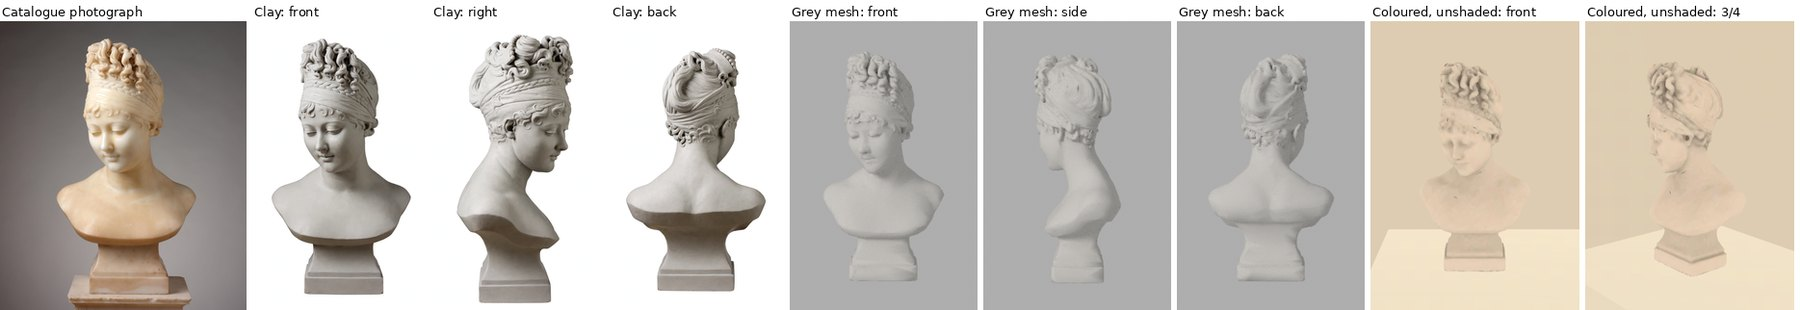
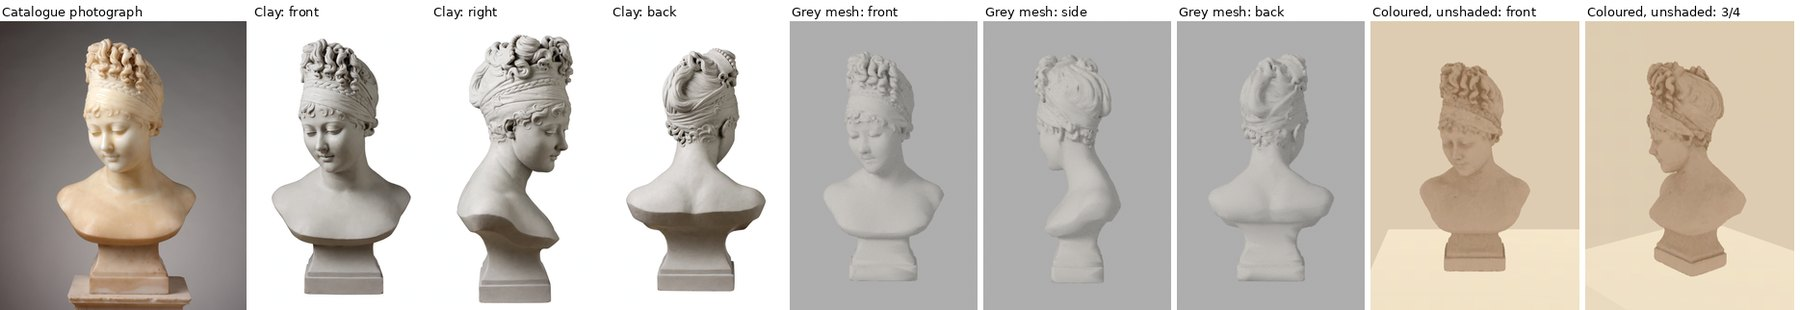
Bust of Madame Récamier 37.201: honey colour, and placed in the Rockefeller room: source only (#263)
Colour without a paid run: base from the middle third of the photograph (her lit face is blown pale there),
shaded towards the photograph's amber shadow colour at strength 1.6, so the face reads; she was a pale ghost.
Placement: her volume_instances row in video-inventory.json gains "mesh": "additions/rockefeller/recamier-37201.glb".
Her row's position is inside the Rockefeller room's bounds and the manifest lists her there, so the GLB is in
additions/rockefeller/, not additions/grey/. representation.json: her key becomes her accession, as a mesh
(58 shortfalls left).

Changed region(s): [[0.7778, 0.2032, 0.8711, 0.9], [0.9022, 0.2032, 0.9956, 0.9]]

diff --git a/image-work/mesh-pilot-263/plain_colour.py b/image-work/mesh-pilot-263/plain_colour.py
@@ -14,7 +14,7 @@ base = np.median(px[(lum >= np.percentile(lum, lo)) & (lum <= np.percentile(lum,
 dark = np.median(px[lum <= np.percentile(lum, 17)], axis=0) if shade == "photo" else np.zeros(3)
 a = np.array(Image.open(ao).convert("L").resize((int(size), int(size)), Image.LANCZOS)).astype(np.float32) / 255
 a = cv2.GaussianBlur(a, (0, 0), blur * int(size) / 512); a = np.clip((a - np.percentile(a, 2)) / max(1e-3, np.percentile(a, 98) - np.percentile(a, 2)), 0, 1)
-w = (1 - k + k * a)[..., None]  # 1 where open, 1 - k in the deepest hollow
+w = np.clip(1 - k + k * a, 0, 1)[..., None]  # 1 where open, 1 - k in the deepest hollow; a strength over 1 reaches the shade colour sooner
 Image.fromarray((base[None, None, :] * w + dark[None, None, :] * (1 - w)).clip(0, 255).astype(np.uint8)).save(out)
 print(f"plain colour: base ({which}) {np.round(base).astype(int).tolist()}, shade ({shade}) {np.round(dark).astype(int).tolist()}, occlusion {k} blurred {blur} px")
 if __name__ == "__main__" and shade == "grey" and which == "bright":  # the one check: the accepted rule is unchanged

diff --git a/modules/shell/prototype/mesh_pilot/meshes/37.201/PROVENANCE.md b/modules/shell/prototype/mesh_pilot/meshes/37.201/PROVENANCE.md
@@ -11,7 +11,7 @@ Made on the Muse-first route (`image-work/mesh-pilot-263/RECIPE.md`), 8 October 
 | Mesh | Flora, RISD EDU Workspace, Tripo H3.1 Multi-View (`i3d-tripo-h3-1-multiview-i3d`), geometry detailed, texture off, face limit 500,000; views given as back, right, front (the frame turned half round, because the left view failed); views front and right each from the museum's photograph of that side; back inferred by Muse; no left view (the Muse call failed with HTTP 502 and was not resubmitted); run `run_m176j6j9xvqh2cgavbw9hhmpm58fx6dm`; raw GLB `2f59f0c41cc4bae9…` (477,562 triangles, not kept) | quoted 0.48, charged 0.48 USD |
 | Rejected mesh | Tripo H3.1 Multi-View (`i3d-tripo-h3-1-multiview-i3d`), run `run_m171mq2jvy2r4gkzr2qzg9bdvs8fx0jw`; views front from the photograph; left and back inferred (Muse drew the right profile, mirrored). Rejected 8 October: the photograph taken as the front is a view from her right side, Muse drew a round lump for the square stepped socle, and the colour had invented veining and dark hair; mesh kept outside git | quoted 0.48, charged 0.48 USD |
 | Blender 5.2.2 | `clay_mesh.py`: reduced to 10,000 triangles, occlusion baked from the high mesh; made 0.3535 m wide and 0.2802 m deep at the catalogue height, set to [0.337, 0.6061, 0.2352] m (width, height, depth) | free |
-| Colour | `plain_colour.py`: one base colour from the lit areas of the catalogue photograph, with the baked occlusion blurred (strength and blur: 0.6 1); no projected views, which streaked this white object | free |
+| Colour | `plain_colour.py`: one base colour from the catalogue photograph, with the baked occlusion blurred (strength, blur, and where given which third of the photograph gives the base and whether the shading runs to the photograph own shadow colour: 1.6 0.6 mid photo); no projected views, which streaked this white object | free |
 
 | View | Came from |
 | --- | --- |
@@ -19,4 +19,4 @@ Made on the Muse-first route (`image-work/mesh-pilot-263/RECIPE.md`), 8 October 
 | `clay-right` | photograph of this direction; the photograph is from her right and a little behind; Muse turned it to a strict profile |
 | `clay-back` | inferred by Muse from the clay front, the clay right and the right-side photograph; no photograph or footage of the back exists |
 
-`37-201.glb` (`2170f679bcf9a266…`): 10,000 triangles, one colour texture, no normal map, for drawing unshaded. In the pack: 261 KB (mesh 212, colour 49).
+`37-201.glb` (`d61eea50c95a41cd…`): 10,000 triangles, one colour texture, no normal map, for drawing unshaded. In the pack: 256 KB (mesh 212, colour 44).

diff --git a/image-work/mesh-pilot-263/SPEND.md b/image-work/mesh-pilot-263/SPEND.md
@@ -78,7 +78,7 @@ The Hand of God redone as plain marble (no charge): accepted, 233 KB.
 | Pietà 59.128 | 5 (0.05): clay front, a three-quarter and a carved back that were not used, a strict left profile, flat front | Multi-View from front + left, 0.48 / 0.48 | 252 KB; placed in the room source |
 | Saint Roch 21.398 | 6 (0.06): clay front, back and left, flat front and back, and a flat left that repeated the front and was not used | Multi-View from front, left, back, 0.48 / 0.48 | 262 KB; placed in the room source |
 
-| Bust of Madame Récamier 37.201, redo | 3 (0.03): clay front, right and back; a fourth call (clay left) failed with HTTP 502, was not resubmitted, charge unknown and not counted | Multi-View from back, right, front (the frame turned half round), 0.48 / 0.48 | 261 KB, plain-marble colour, square stepped socle; waiting for the lead's look, not placed |
+| Bust of Madame Récamier 37.201, redo | 3 (0.03): clay front, right and back; a fourth call (clay left) failed with HTTP 502, was not resubmitted, charge unknown and not counted | Multi-View from back, right, front (the frame turned half round), 0.48 / 0.48 | 256 KB; geometry accepted; recoloured honey (mid-tone base, amber shading); placed in the Rockefeller room source |
 | Fireplace surround 83.152 | 3 (0.03): clay front (Muse accepted it this time), clay left, flat front | Multi-View from front + left, 0.48 / 0.48 | 358 KB at 1024 px colour; placed in the room source |
 | River God 44.674 | 0: the one clay attempt was refused (HTTP 400), charge unknown and not counted | Multi-View from the museum's own front, left and back photographs, 0.48 / 0.48 | 224 KB; kept as a trial only, not in the game sources: the lead withdrew the photograph route on 8 October (a refused Muse step is a stop) and put it to the owner as item 20 on #262 |
 
